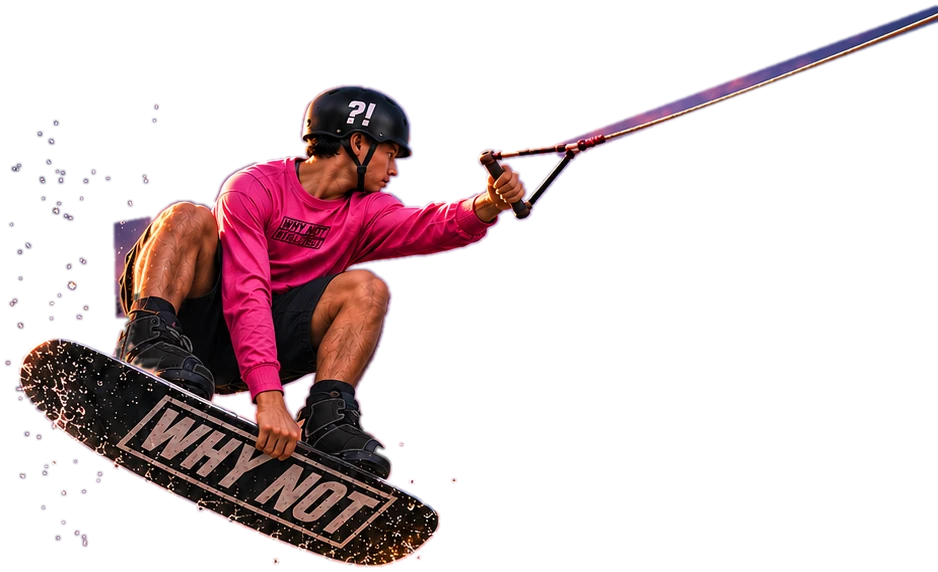
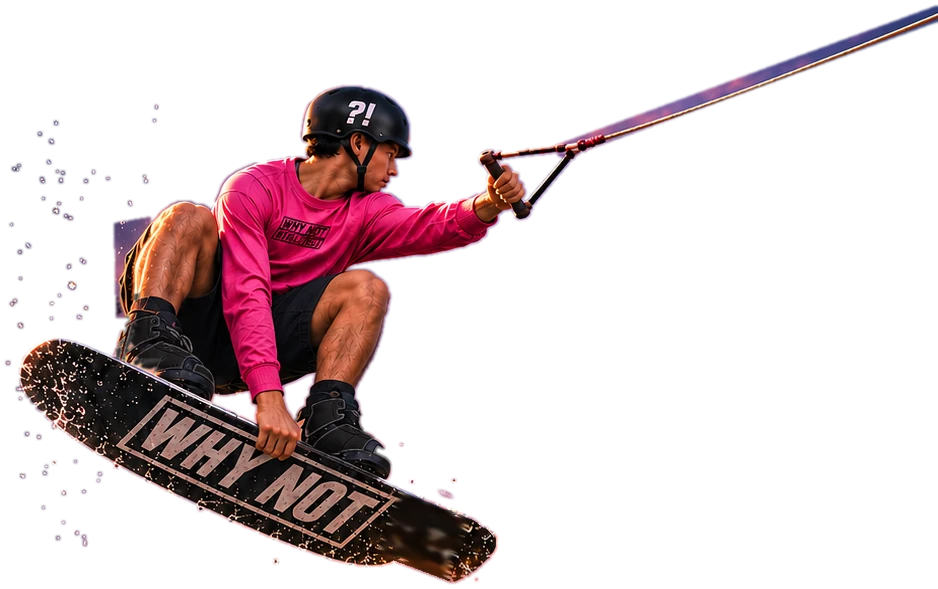
Blunts: weight on the bent leg over the locked end, other leg stretched out in the air; key art: squarer wakeskate, longer wakeboard
Claude-Session: https://claude.ai/code/session_01QsYEHUyG7nKDhAuG72Zwer

diff --git a/src/rider/animator.ts b/src/rider/animator.ts
@@ -681,13 +681,16 @@ export class Animator {
         // the end is locked over the rail, the board stands up steeply, the rider stacked over that end
         const nose = stance === 'noseblunt' ? 1 : -1;
         const half = this.spec.kind === 'wakeboard' ? 0.62 : 0.5;
+        // weight sits on the BENT leg over the locked end; the other leg stretches out towards the
+        // raised end, that foot in the air — not over the rail
         T.bZ = -nose * half;
         T.bPivot = nose * half;
-        T.bPitch = -nose * 0.95;
-        T.hipZ = nose * 0.3;
-        T.hipY -= 0.1;
-        T.pRoll = -nose * 0.18;
-        T.kneeOut = 0.3;
+        T.bPitch = -nose * 0.62;
+        T.hipZ = nose * 0.42;
+        T.hipY -= 0.24;
+        T.pRoll = nose * 0.12;
+        T.pPitch = 0.42;
+        T.kneeOut = 0.34;
       } else if (stance === 'noseslide' || stance === 'tailslide') {
         // only the nose (tail) sits on the rail: the board slides back (forward) along itself,
         // weight over that end, the free end tipped up a little

diff --git a/src/ui/keyart/KeyArt.ts b/src/ui/keyart/KeyArt.ts
@@ -20,8 +20,8 @@ const PLATE_H = 900;
 /** Full poster height: the composition is laid out against it (title below the plate). */
 const POSTER_H = 1672;
 /** Cut-outs: [x, y, w, h] in plate pixels + the pivot they bob around. */
-const RIDER_A = { rect: [3, 2, 938, 572], pivot: [260, 330] } as const;
-const RIDER_B = { rect: [483, 182, 458, 476], pivot: [690, 440] } as const;
+const RIDER_A = { rect: [3, 2, 938, 589], pivot: [260, 330] } as const;
+const RIDER_B = { rect: [483, 182, 458, 478], pivot: [690, 440] } as const;
 
 const VS = `
 attribute vec2 aPos;
